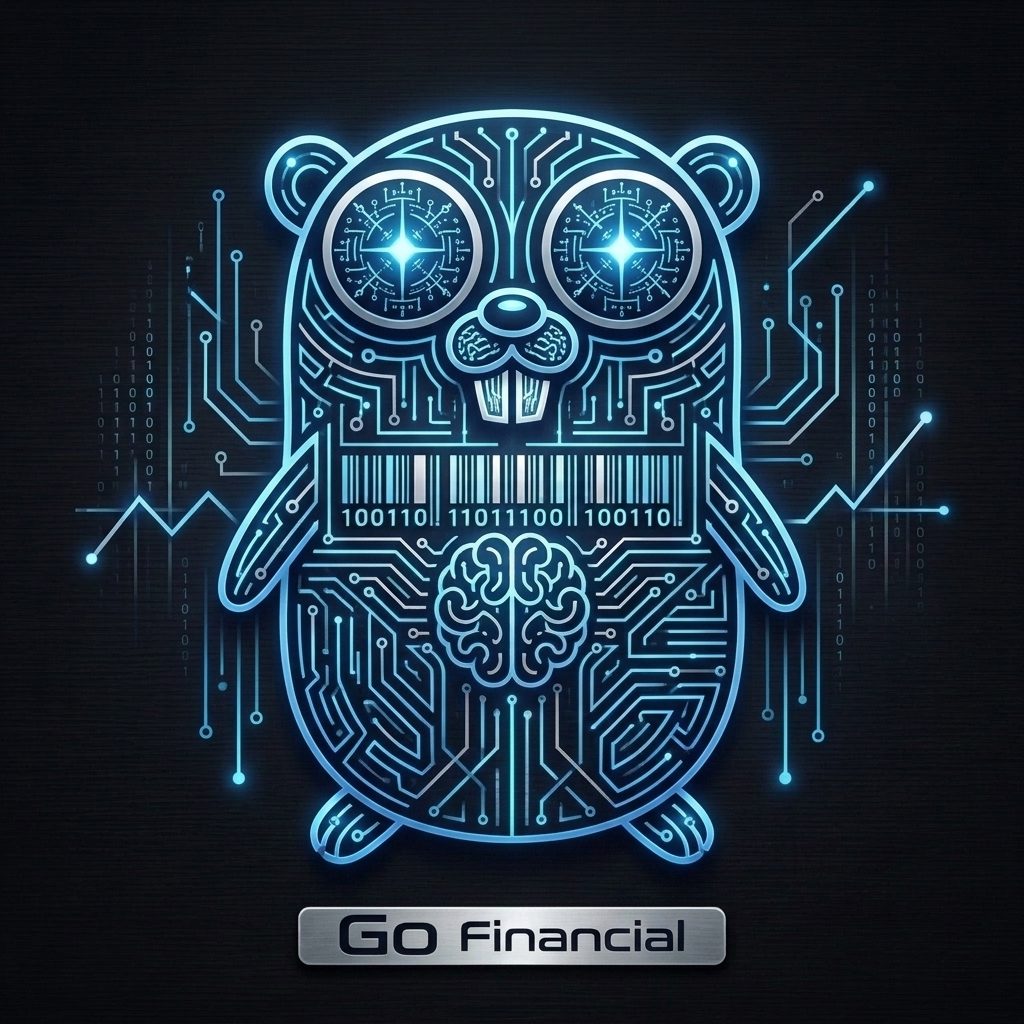
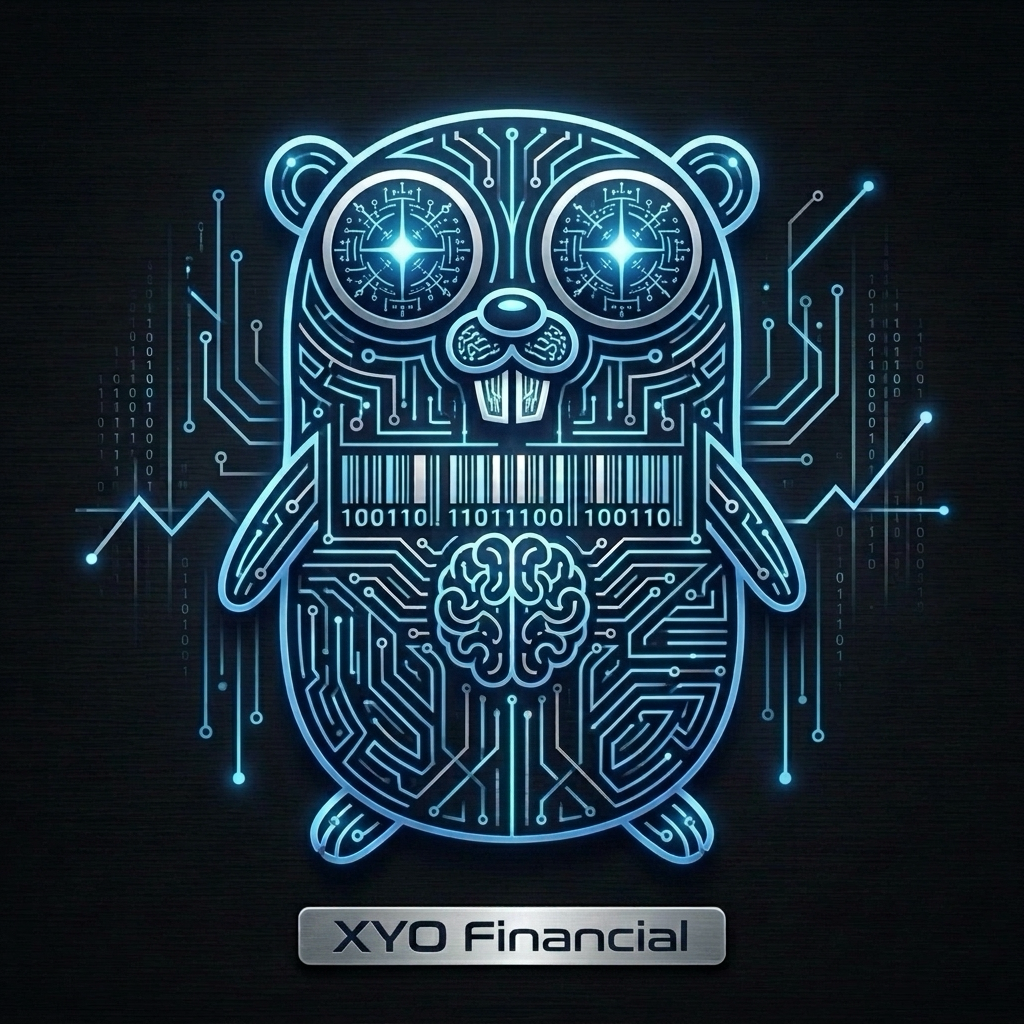
chore(mascot): fixed the mascot Go Financial to XYO Financial

Changed region(s): [[0.3125, 0.875, 0.6875, 0.9375], [0.5, 0.375, 0.5312, 0.4062]]

diff --git a/docs/mascot_generation_instructions.md b/docs/mascot_generation_instructions.md
@@ -3,4 +3,4 @@ The `mascot.png` image in this directory was generated using an AI image generat
 
 ## Details
 * **Reference Image:** `../../rust/docs/rust_mascot_sleek_neon.jpg`
-* **Prompt Used:** "A futuristic, sleek neon illustration of the Golang gopher. Glowing vibrant colors on a dark background, similar in mood, lighting, and artistic style to the provided reference image of a crab."
+* **Prompt Used:** "A futuristic, sleek neon illustration of the Golang gopher. Glowing vibrant colors on a dark background, similar in mood, lighting, and artistic style to the provided reference image of a crab. The text 'XYO Financial' should be prominently displayed."
